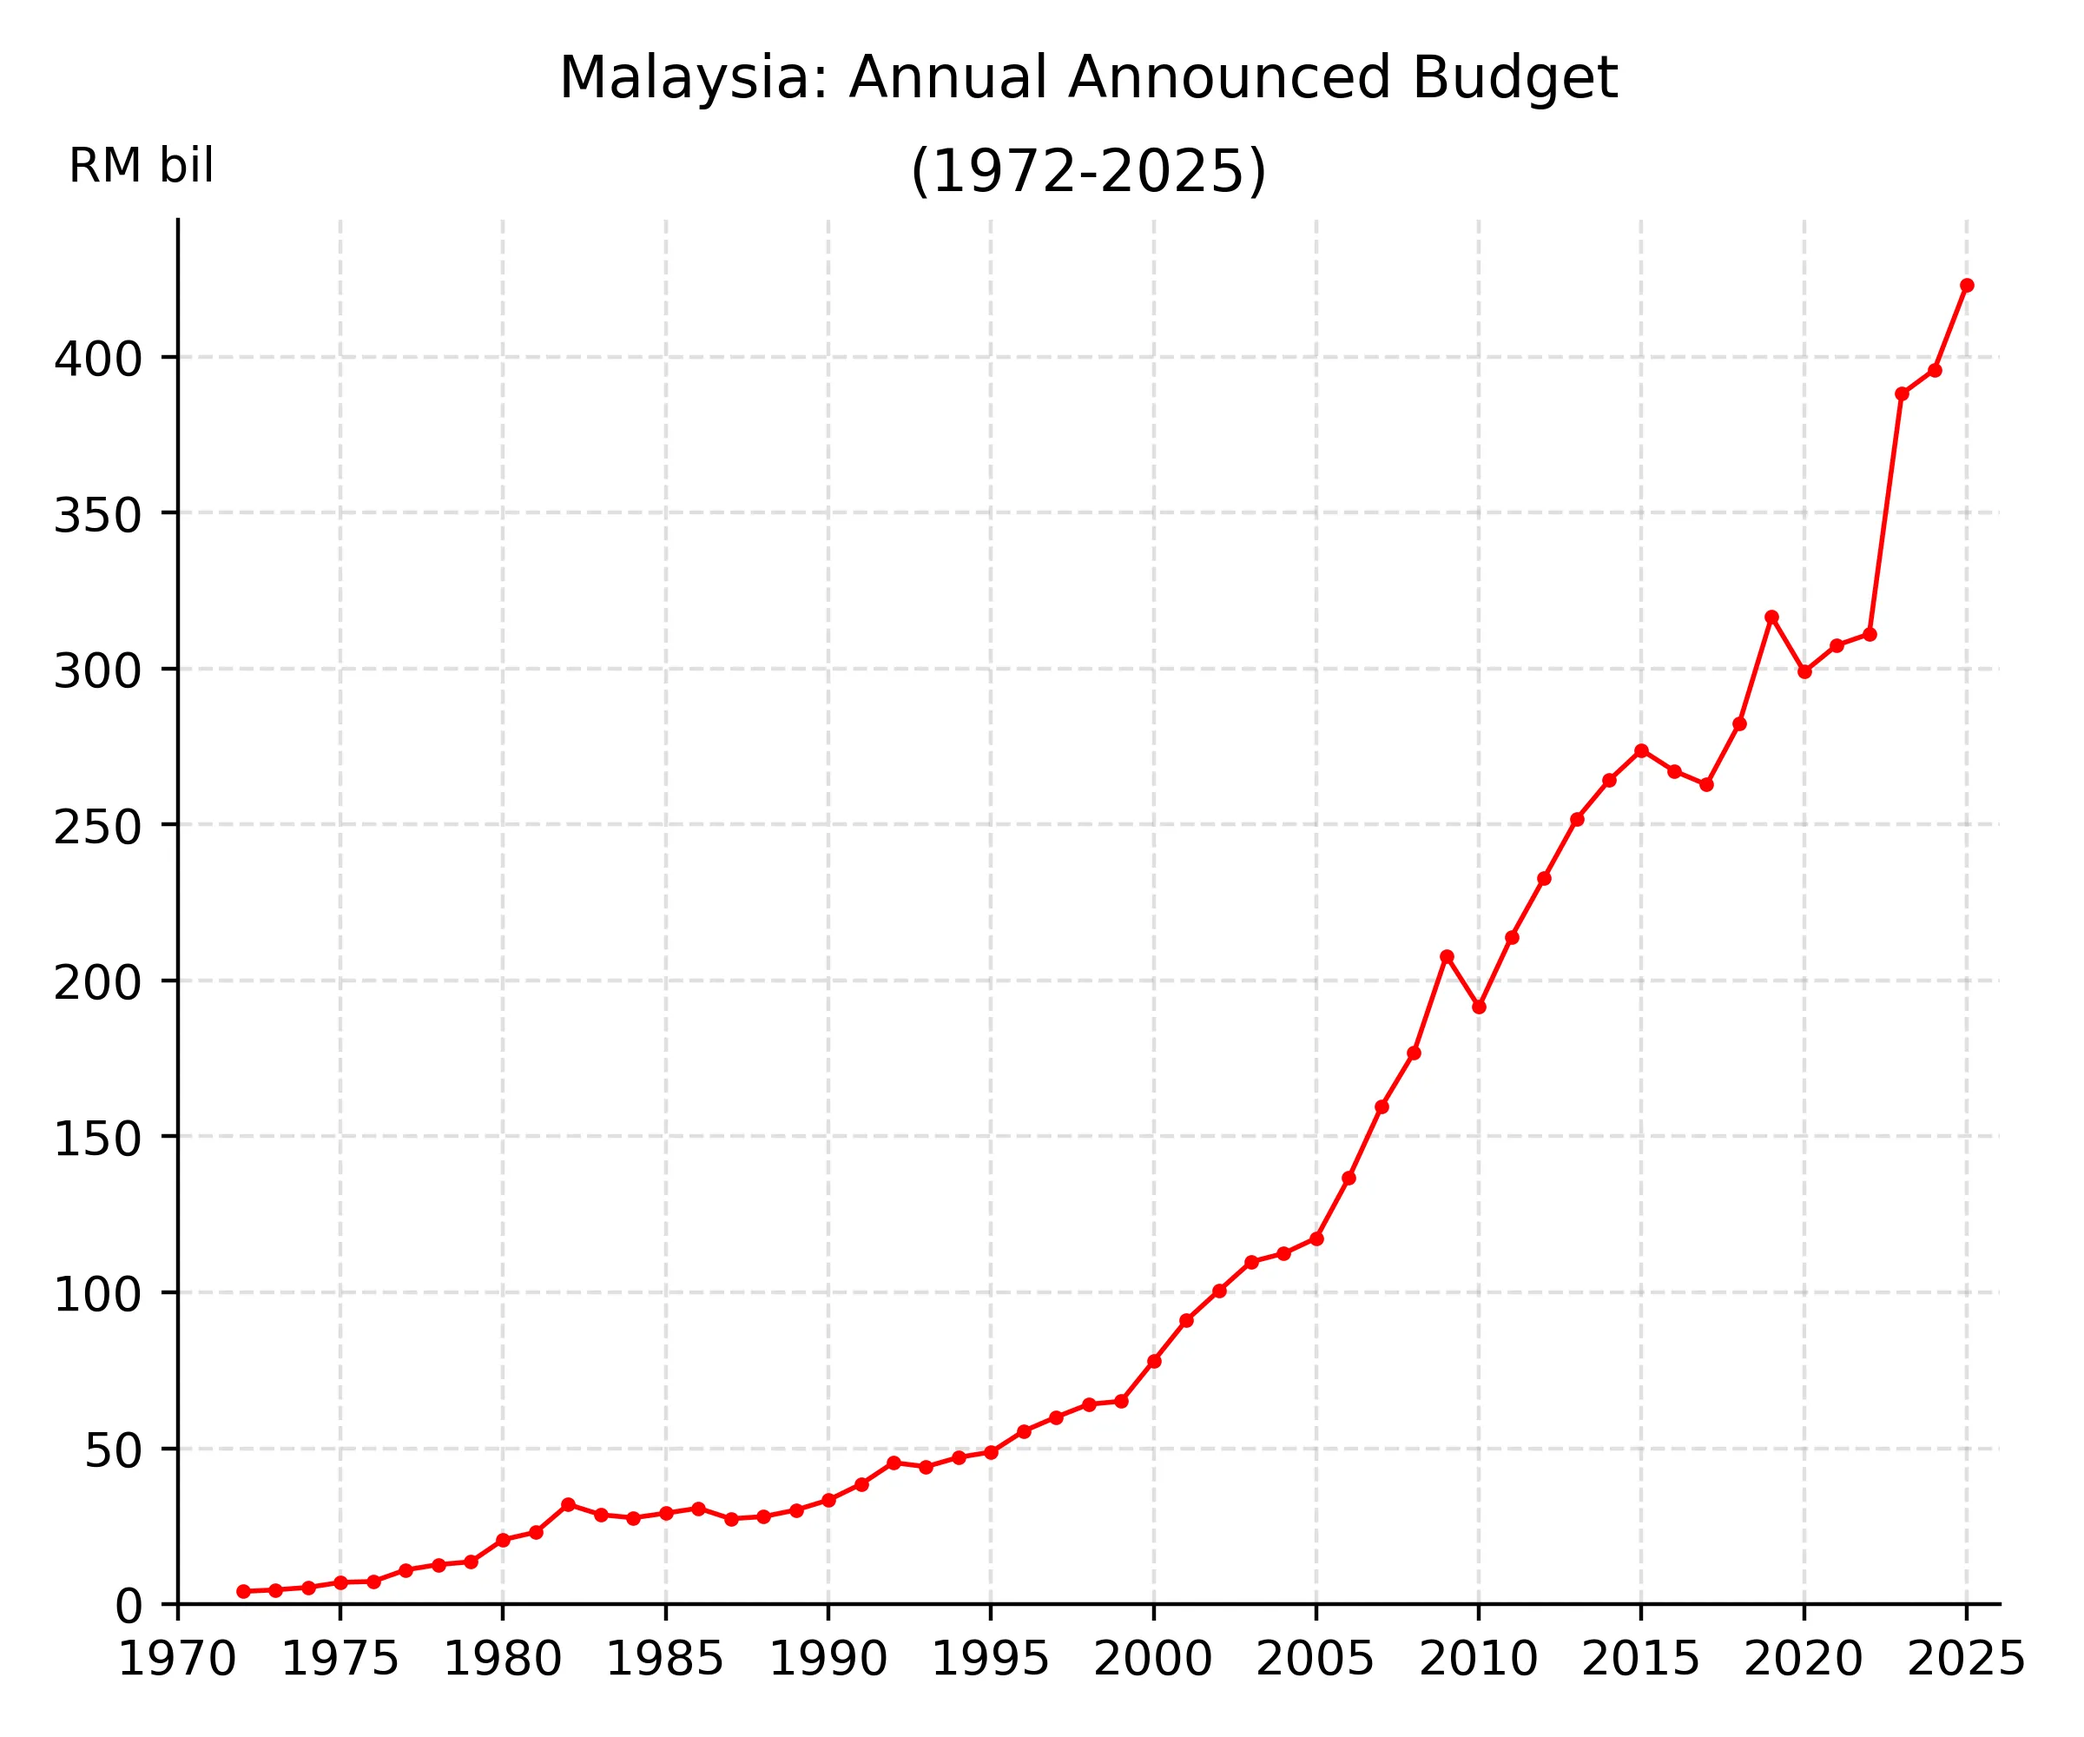
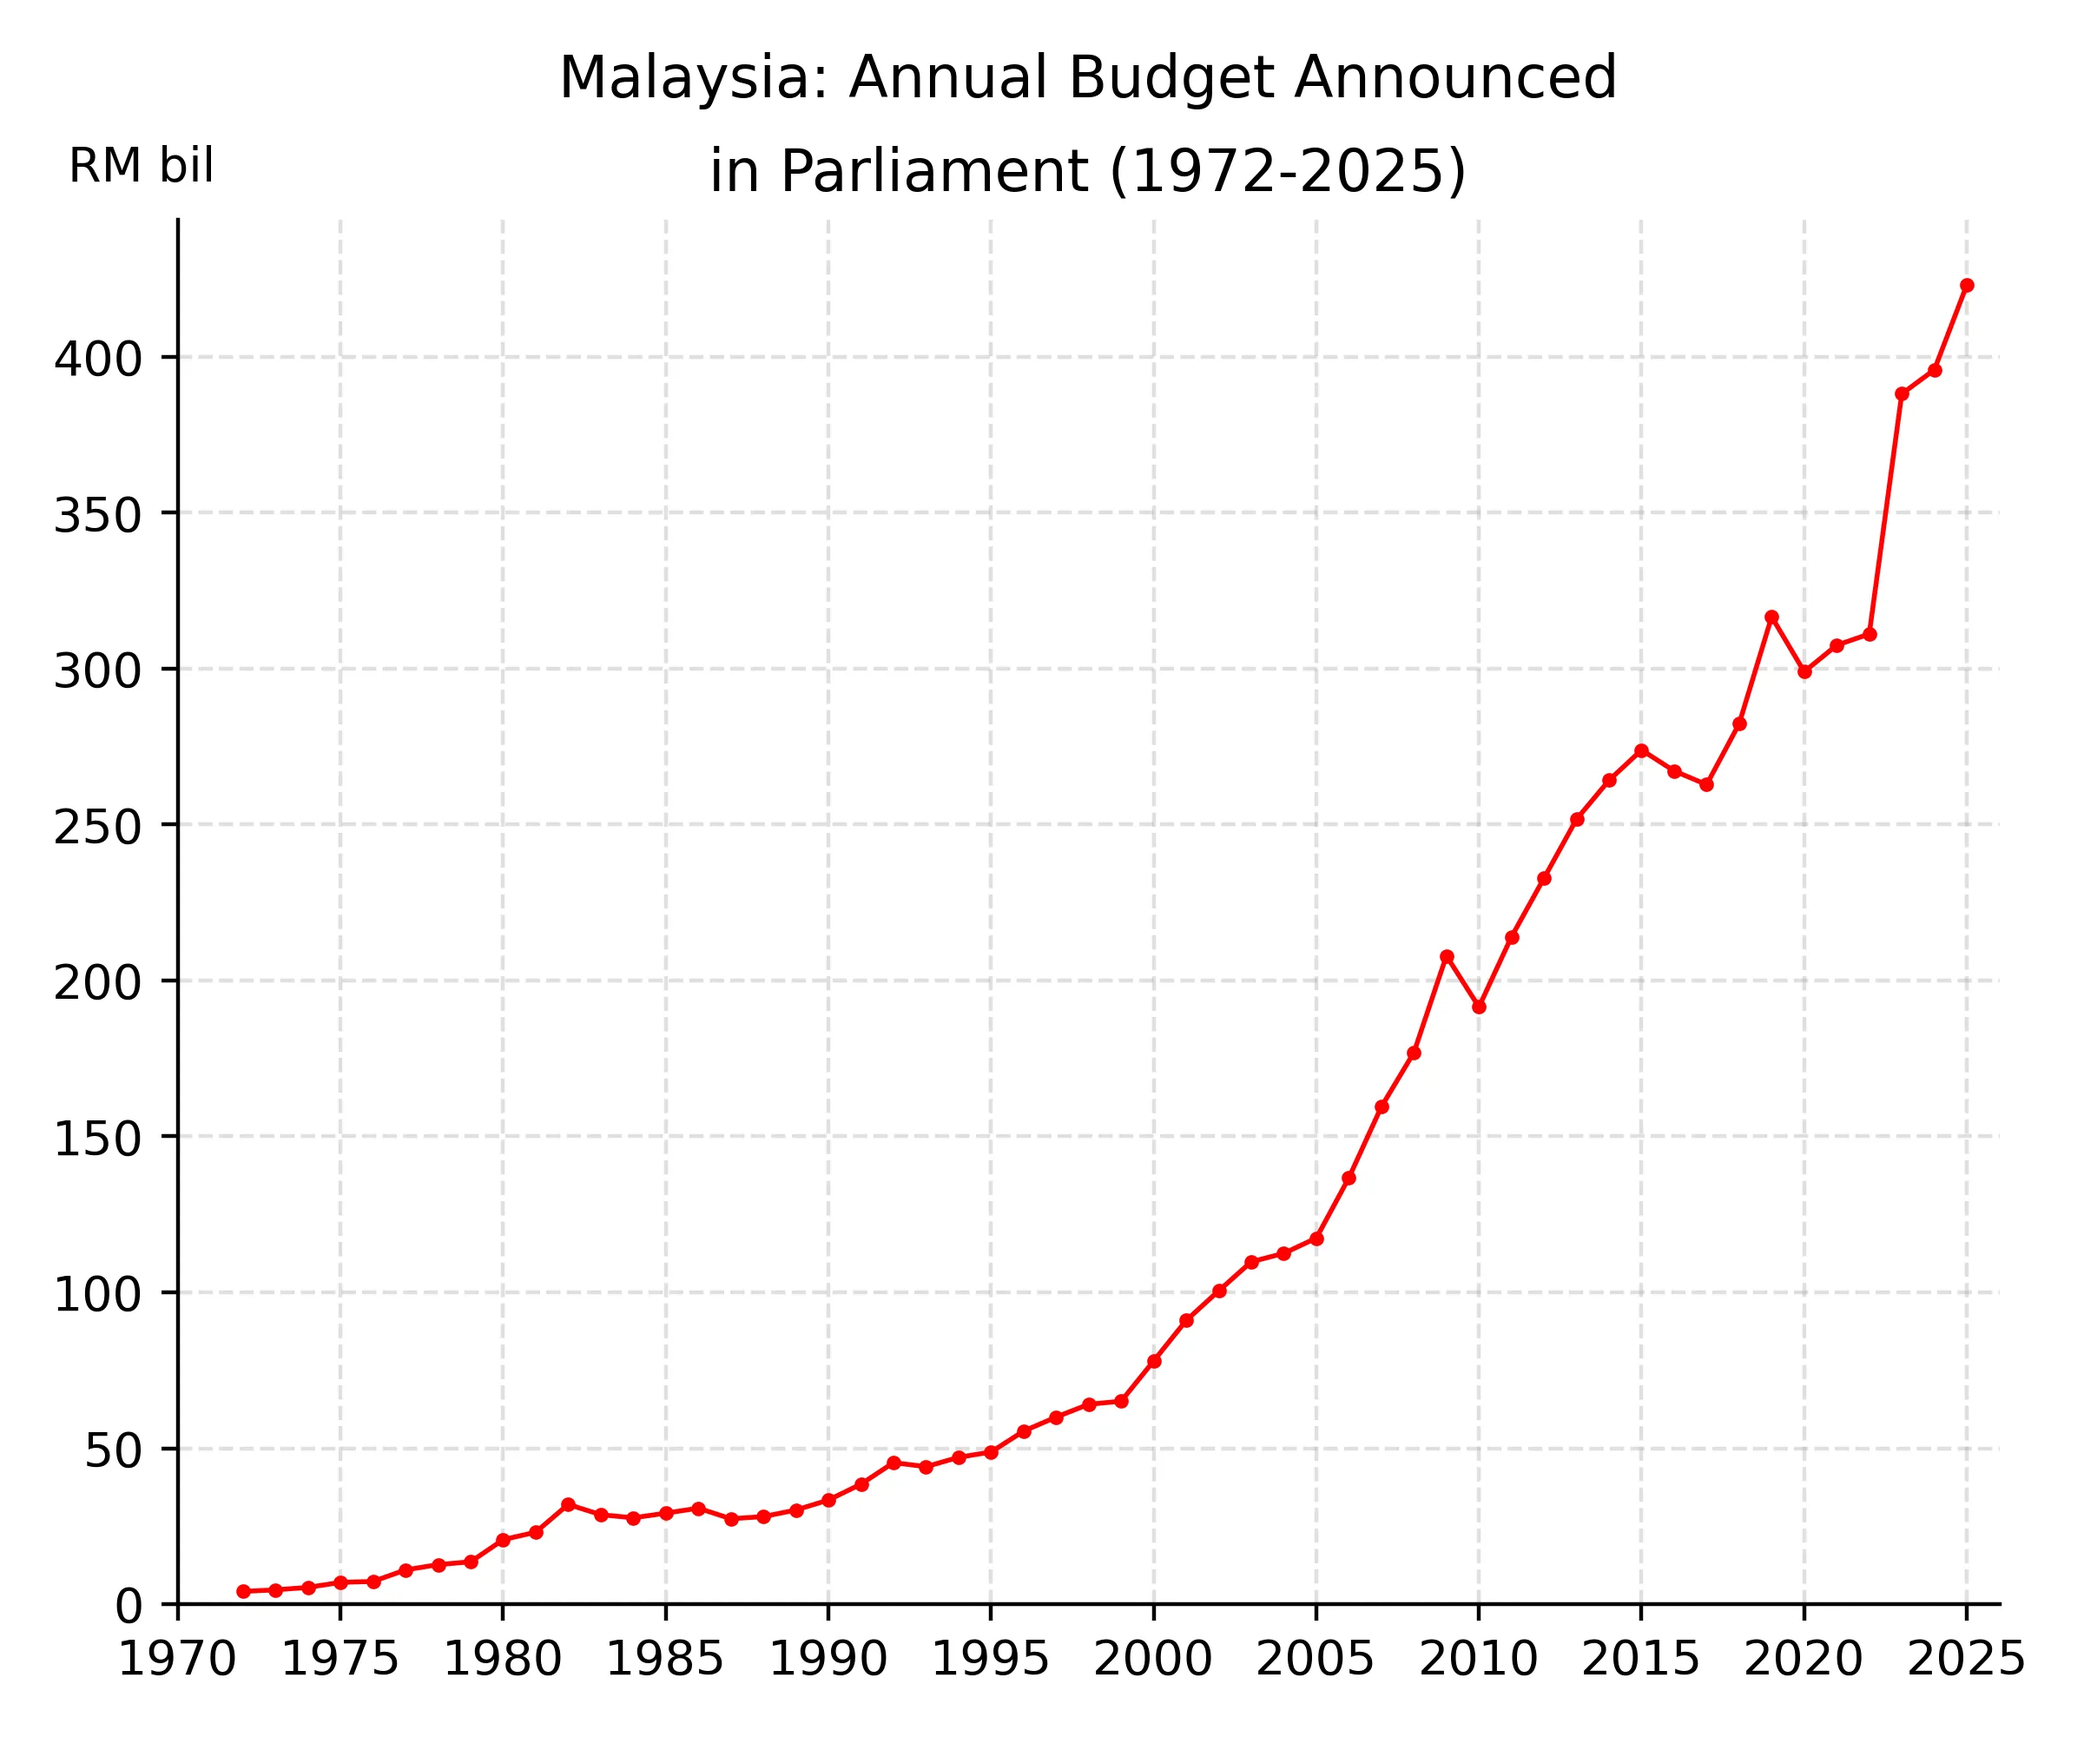
Annual budget

Changed region(s): [[0.3438, 0.031, 0.7812, 0.124]]

diff --git a/2024-10-26_budget/script.py b/2024-10-26_budget/script.py
@@ -37,7 +37,7 @@ def timeseries(SCALED=0):
 
     # plot-wide adjustments
     if SCALED == 0:
-        ax.set_title(f"Malaysia: Annual Announced Budget\n(1972-2025)",linespacing=1.8)
+        ax.set_title(f"Malaysia: Annual Budget Announced\nin Parliament (1972-2025)",linespacing=1.8)
     else:
         ax.set_title(f"""Malaysia: Annual Announced Budget\nas % of Nominal GDP (1972-2025)\n(note: 2024-25 uses latest IMF GDP forecasts)""",linespacing=1.8)
     for b in ['top','right']: ax.spines[b].set_visible(False)
